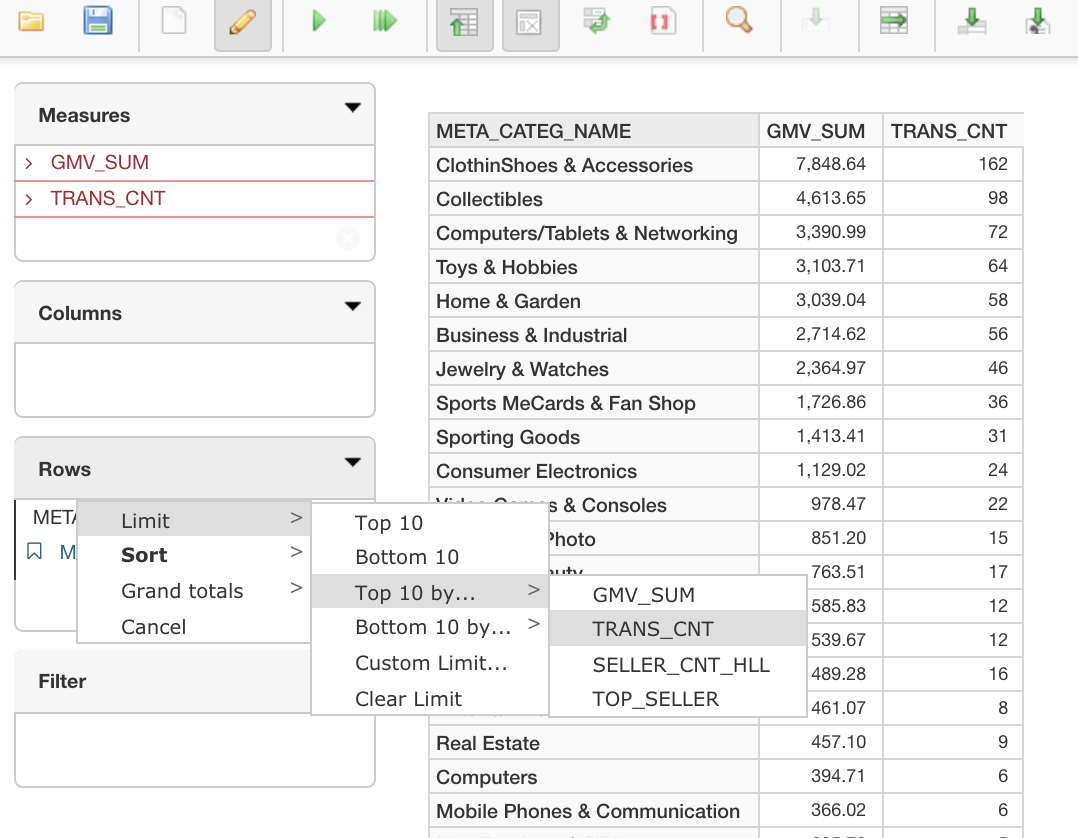
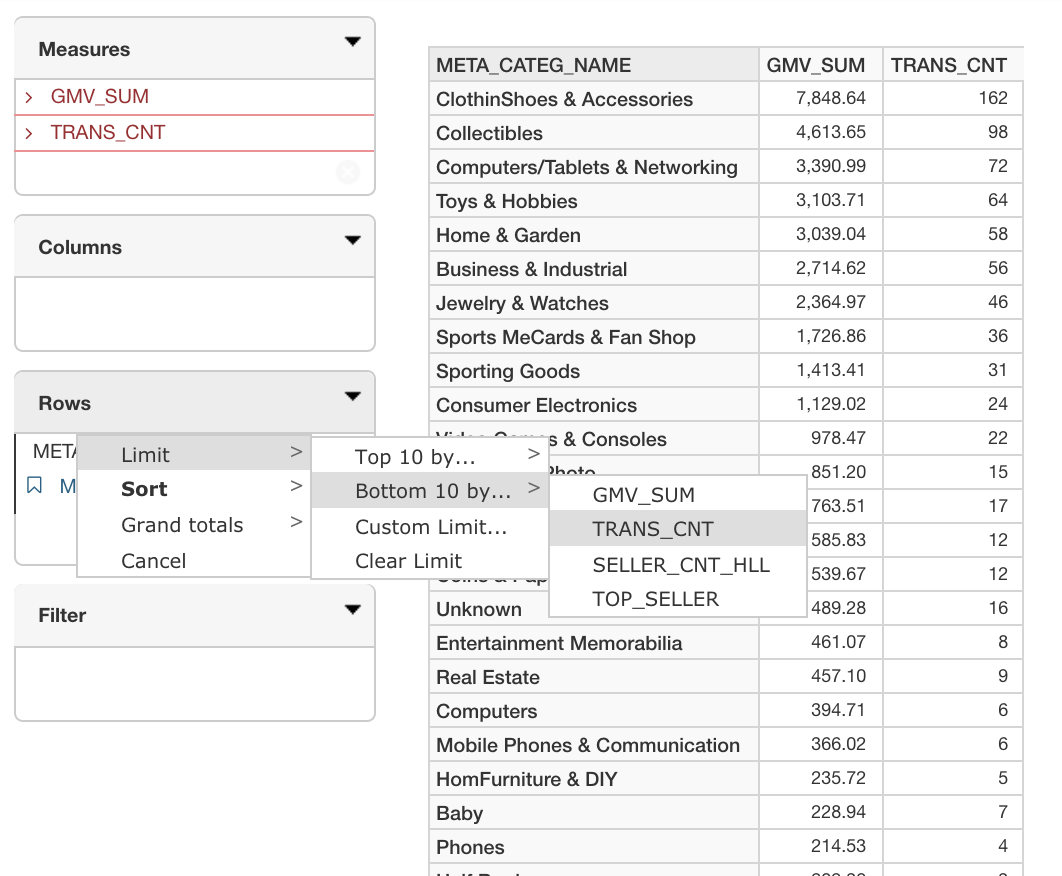
update kyananlyzer ranking

Changed region(s): [[0.0, 0.0, 0.9944, 1.0], [0.0311, 0.8067, 0.0932, 0.8377], [0.7458, 0.0, 0.7768, 0.031]]

diff --git a/en/kyanalyzer/analysis.en.md b/en/kyanalyzer/analysis.en.md
@@ -13,13 +13,11 @@ To filter the query results, you may click the dimension name, and then a filter
 ### Ranking
 1. To get the top or bottom results for current query, click the down arrow on the right side of columns or rows. 
 
-2. Choose **Limit**, and then select **Top 10** or **Bottom 10**. You will filter the reports with Top 10 or Bottom 10 results respectively by the measure on the report.
-![Ranking 1](images/top_1_en.png)
+2. Choose **Limit**, and then select **Top 10 by...** or **Bottom 10 by...**. You will filter the reports with Top 10 or Bottom 10 results respectively by the measure you specified. In this example, we choose to rank Top 10 by **TRANS_CNT**.
 
-3. If there are multiple measures in the report, it is recommended that you specify one measure which you want to rank the Top 10 or Bottom 10. In this example, we choose to rank Top 10 by **TRANS_CNT**.
-![Ranking 2](images/top_2_en.png)
+  ![Ranking 2](images/top_2_en.png)
 
-4. Then the report will show the specified ranked results as below.
+3. Then the report will show the specified ranked results as below.
 
 ![Ranking 3](images/top_3_en.png)
 
@@ -30,13 +28,13 @@ You may calculate subtotals and grand totals at different dimension levels.
 #### Subtotal
 
 1. To calculate the subtotal, first click on the dimension that you may want to calculate its subtotal on row or column. In this example, we click on **CATEG_LEVL2_NAME** to calculate its subtotal.
-![Subtotal 1](images/subtotal_0_en.png)
+  ![Subtotal 1](images/subtotal_0_en.png)
 
 2. In the pop-up window, in **Sub totals** section, choose the aggregation method you may prefer. In this example, we choose **Sum** as the aggregation method for subtotal.
-![Subtotal 2](images/subtotal_1.png)
+  ![Subtotal 2](images/subtotal_1.png)
 
 3. Click **OK**. Then you'll see the subtotal of sum for `CATEG_LEVL2_NAME` on the report shown as below.
-![Subtotal 2](images/subtotal_2.png)
+  ![Subtotal 2](images/subtotal_2.png)
 
 #### Grand Total
 
@@ -44,7 +42,7 @@ You may calculate subtotals and grand totals at different dimension levels.
 2. Choose **Grand totals**.
 3. Select the aggregation method you may prefer. In this example, we use **Sum**.
 4. Then you will see the grand total for **Rows** or **Columns** showing up on the report.
-![Grand total](images/grandtotal_en.png)
+  ![Grand total](images/grandtotal_en.png)
 
 
 
